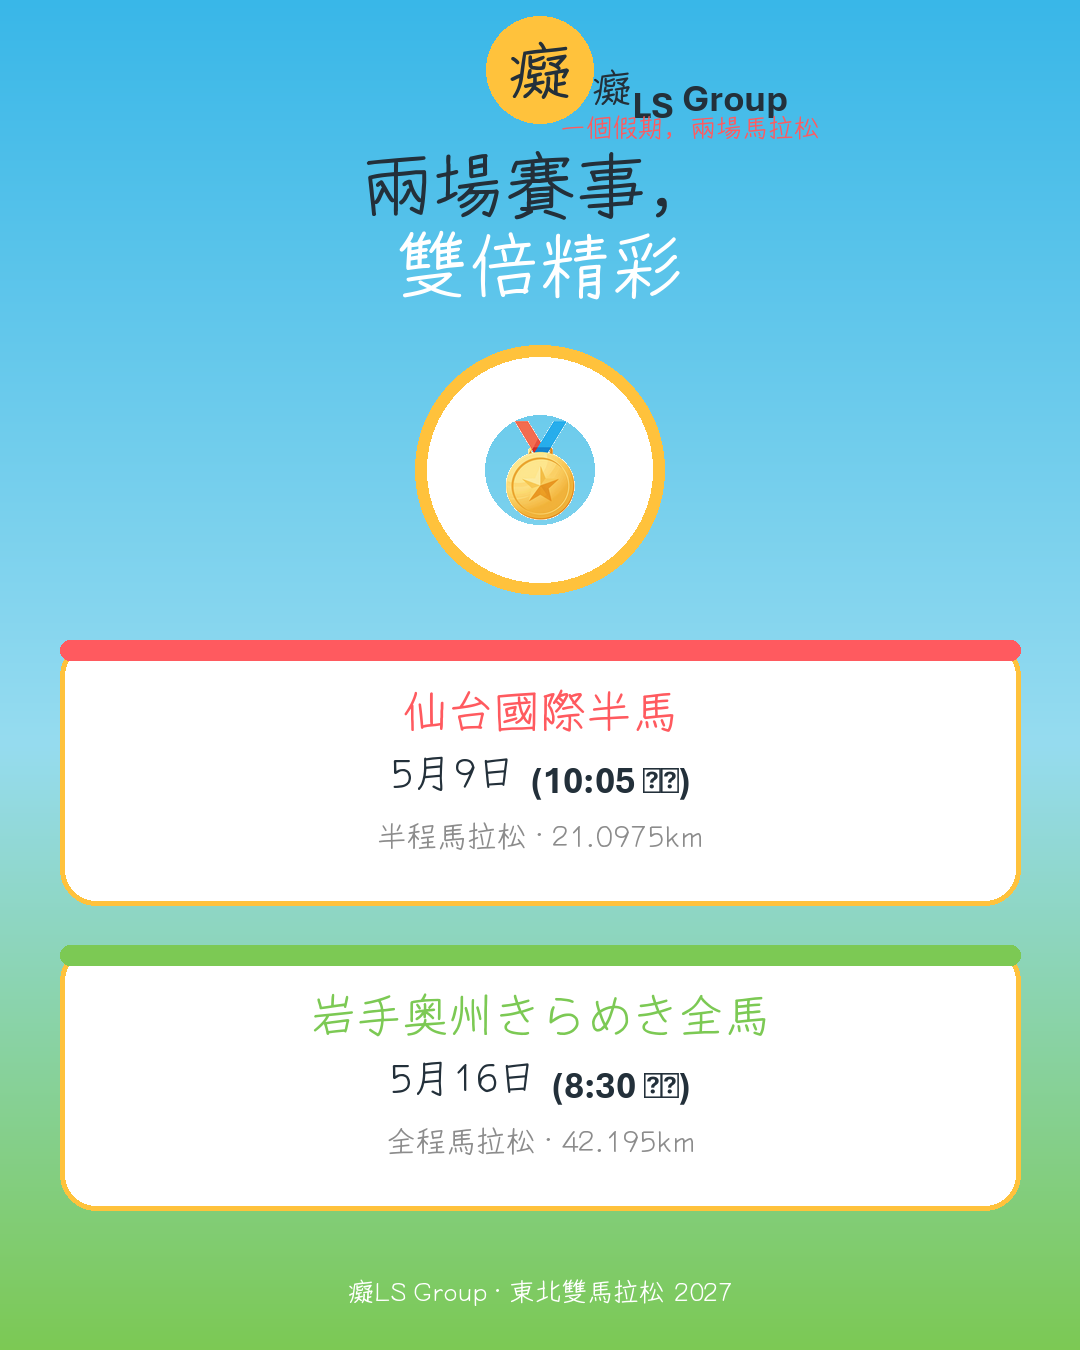
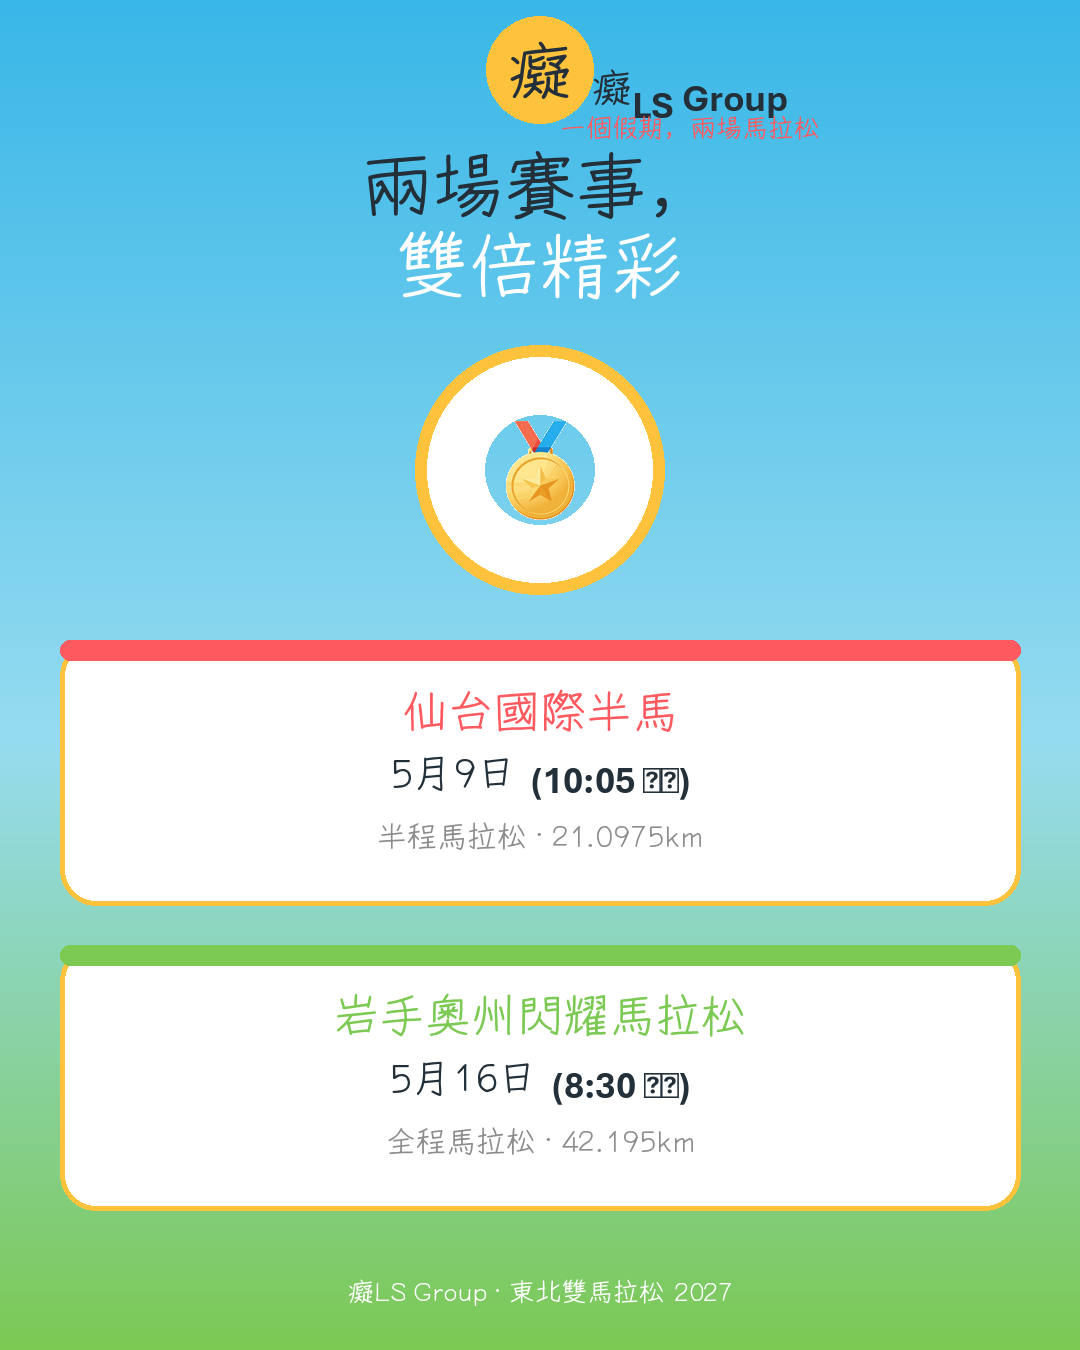
feat: 統一奥州馬拉松中文名 — 岩手奧州閃耀馬拉松
將全站/PDF/圖卡/文案中嘅「奥州きらめき全馬」統一改為官方中文譯名「岩手奧州閃耀馬拉松」（きらめき=閃耀，台灣跑界通用譯法），簡稱保留「奥州全馬」。

改動檔案：
- index.html / info.html — 標題、description、賽事表、時間線
- README.md — 專案介紹
- docs/itinerary.md + rebuild PDF
- build_itinerary.py — 行程生成器
- promo/slogans-and-copy.md — 口號文案
- promo/cards/generate_cards.py + rebuild 5張圖卡

CM 相關（gen_captions.py / CM-storyboard.md / build_cm3.py）暫不更改，按指示保留日文原名。

Changed region(s): [[0.275, 0.7156, 0.7028, 0.7778]]

diff --git a/index.html b/index.html
@@ -4,7 +4,7 @@
 <meta charset="UTF-8">
 <meta name="viewport" content="width=device-width, initial-scale=1.0">
 <title>東北雙馬拉松挑戰之旅 2027｜仙台半馬 × 岩手奥州全馬｜癡LS Group</title>
-<meta name="description" content="一個假期，兩場馬拉松。2027年5月，仙台國際半馬 + 岩手奥州きらめき全馬。佛誕夾中間，請4放9，東北JR Pass 10日任搭。癡LS Group 主辦。">
+<meta name="description" content="一個假期，兩場馬拉松。2027年5月，仙台國際半馬 + 岩手奧州閃耀馬拉松。佛誕夾中間，請4放9，東北JR Pass 10日任搭。癡LS Group 主辦。">
 <link rel="preconnect" href="https://fonts.googleapis.com">
 <link href="https://fonts.googleapis.com/css2?family=Noto+Serif+TC:wght@500;700;900&family=Noto+Sans+TC:wght@400;500;700;900&display=swap" rel="stylesheet">
 <style>
@@ -166,7 +166,7 @@ footer .brand{color:#fff;font-family:var(--serif);font-size:15px;font-weight:700
   <div class="wrap">
     <span class="kicker">一個假期・兩場馬拉松</span>
     <h1>半馬起跑，全馬征服</h1>
-    <p class="sub">仙台國際半馬 × 岩手奥州きらめき全馬。中間 5/13 佛誕放假，請4放9，東北 JR Pass 10日任搭。</p>
+    <p class="sub">仙台國際半馬 × 岩手奧州閃耀馬拉松。中間 5/13 佛誕放假，請4放9，東北 JR Pass 10日任搭。</p>
     <div class="meta">
       <div><b>5·09</b>仙台半馬</div>
       <div><b>5·13</b>佛誕</div>
@@ -217,7 +217,7 @@ footer .brand{color:#fff;font-family:var(--serif);font-size:15px;font-weight:700
         <img src="assets/oshumarathon.jpg" alt="奥州全馬">
         <div class="body">
           <span class="date">5 月 16 日 · 星期日</span>
-          <h3>岩手奥州きらめき全馬 <span class="badge">42.195km</span></h3>
+          <h3>岩手奧州閃耀馬拉松 <span class="badge">42.195km</span></h3>
           <div class="rows">
             <div class="row"><span>起跑</span><b>8:30</b></div>
             <div class="row"><span>限時</span><b>6 小時</b></div>
@@ -245,8 +245,8 @@ footer .brand{color:#fff;font-family:var(--serif);font-size:15px;font-weight:700
         <div class="cap">仙台國際半馬 官方精華 <small>official digest</small></div>
       </div>
       <div class="video-box">
-        <iframe loading="lazy" src="https://www.youtube.com/embed/zMB8N78jR0I" title="岩手奥州きらめき馬拉松" allowfullscreen></iframe>
-        <div class="cap">岩手奥州きらめき馬拉松 現場 <small>official live camera</small></div>
+        <iframe loading="lazy" src="https://www.youtube.com/embed/zMB8N78jR0I" title="岩手奧州閃耀馬拉松" allowfullscreen></iframe>
+        <div class="cap">岩手奧州閃耀馬拉松 現場 <small>official live camera</small></div>
       </div>
     </div>
 
@@ -309,7 +309,7 @@ footer .brand{color:#fff;font-family:var(--serif);font-size:15px;font-weight:700
       <div class="tl race-day"><div class="day">Day 6 · 5/13 四</div><div class="d">🎋 佛誕・全日休腳，泡湯補碳</div></div>
       <div class="tl"><div class="day">Day 7 · 5/14 五</div><div class="d">鳴子峽 / 秋保溫泉，轉戰奥州</div></div>
       <div class="tl"><div class="day">Day 8 · 5/15 六</div><div class="d">奥州全馬報到，補碳早瞓</div></div>
-      <div class="tl race-day"><div class="day">Day 9 · 5/16 日</div><div class="d">🏅 岩手奥州きらめき全馬 → 傍晚羽田紅眼機返港</div></div>
+      <div class="tl race-day"><div class="day">Day 9 · 5/16 日</div><div class="d">🏅 岩手奧州閃耀馬拉松 → 傍晚羽田紅眼機返港</div></div>
       <div class="tl"><div class="day">Day 10 · 5/17 一</div><div class="d">多留一日・自費假期唔包團費（optional）</div></div>
     </div>
   </div>
@@ -371,7 +371,7 @@ footer .brand{color:#fff;font-family:var(--serif);font-size:15px;font-weight:700
 
 <footer>
   <div class="brand">癡LS Group</div>
-  東北雙馬拉松挑戰之旅 2027｜仙台國際半馬 × 岩手奥州きらめき全馬<br>
+  東北雙馬拉松挑戰之旅 2027｜仙台國際半馬 × 岩手奧州閃耀馬拉松<br>
   帶埋朋友一齊跑，送嘅係最美好嘅回憶。
 </footer>
 

diff --git a/info.html b/info.html
@@ -121,7 +121,7 @@ footer .brand{color:#fff;font-family:var(--serif);font-size:15px;font-weight:700
   <h2><span class="n">02</span>兩場賽事報名一覽</h2>
   <div class="card">
     <table>
-      <tr><th></th><th>仙台國際半馬</th><th>岩手奥州きらめき全馬</th></tr>
+      <tr><th></th><th>仙台國際半馬</th><th>岩手奧州閃耀馬拉松</th></tr>
       <tr><td><b>日期</b></td><td>2027-05-09（日）10:05</td><td>2027-05-16（日）8:30</td></tr>
       <tr><td><b>距離</b></td><td>21.0975km <span class="badge sky">半馬</span></td><td>42.195km <span class="badge">全馬</span></td></tr>
       <tr><td><b>參賽費</b></td><td>¥8,000</td><td>¥10,000</td></tr>
@@ -139,7 +139,7 @@ footer .brand{color:#fff;font-family:var(--serif);font-size:15px;font-weight:700
   <div class="card">
     <table>
       <tr><th>賽事</th><th>種目</th><th>費用</th><th>起跑</th><th>備註</th></tr>
-      <tr><td rowspan="3"><b>奥州きらめき</b></td><td>全馬 42.195km</td><td>¥10,000</td><td>8:30</td><td>主賽事・限時6:00</td></tr>
+      <tr><td rowspan="3"><b>奥州閃耀</b></td><td>全馬 42.195km</td><td>¥10,000</td><td>8:30</td><td>主賽事・限時6:00</td></tr>
       <tr><td>10km <span class="badge sky">短距離</span></td><td>¥3,000</td><td>8:45</td><td>同場・限時1:30</td></tr>
       <tr><td>ファンラン 1.7km</td><td>¥2,000</td><td>8:55</td><td>親子/家庭啱玩・限時20分</td></tr>
       <tr><td rowspan="2"><b>仙台半馬</b></td><td>半馬 21.0975km</td><td>¥8,000</td><td>10:05/10:15</td><td>賽日唯一計時賽事</td></tr>
@@ -191,7 +191,7 @@ footer .brand{color:#fff;font-family:var(--serif);font-size:15px;font-weight:700
     <table>
       <tr><th>賽事</th><th>賽日時段</th><th>平均氣溫</th><th>日最高</th><th>日最低</th><th>濕度</th></tr>
       <tr><td><b>仙台半馬</b></td><td>5/9（5月上旬）</td><td>14.3°C</td><td>19.2°C</td><td>10.2°C</td><td>67%</td></tr>
-      <tr><td><b>奥州きらめき全馬</b></td><td>5/16（5月中旬）</td><td>~15°C</td><td>~21°C</td><td>~10°C</td><td>~70%</td></tr>
+      <tr><td><b>奥州閃耀馬拉松</b></td><td>5/16（5月中旬）</td><td>~15°C</td><td>~21°C</td><td>~10°C</td><td>~70%</td></tr>
     </table>
     <p class="muted" style="margin-top:10px">📍 資料來源：<b>日本氣象廳</b> 平年值（1991–2020，30年）。仙台為氣象台觀測值；奥州以就近嘅<b>江刺/盛岡</b>測站平年值（江刺 平均最高約21°C、最低約9.8°C）為準。</p>
     <div class="warn">🌡 5月東北日間涼爽，係跑馬好季節（仙台半馬 5/9 上旬平均僅 ~14°C）。但<b>奥州全馬跑足6小時，日頭可能升到 25–30°C</b>（2026年賽日實錄試過 27°C）—— 下午時段要嚴防暑熱，帶定防曬、帽、鹽丸，每站補水。</div>
@@ -247,7 +247,7 @@ footer .brand{color:#fff;font-family:var(--serif);font-size:15px;font-weight:700
     <div class="linkbox">🌐 <b>Run Japan</b>（外國人報名，前RUNNET GLOBAL）— <a href="https://runjapan.jp" target="_blank">runjapan.jp</a></div>
     <div class="linkbox">📘 <b>RUNNET 海外跑手指引</b> — <a href="https://runnet.jp/runtes/global" target="_blank">runnet.jp/runtes/global</a></div>
     <div class="linkbox">🏁 <b>仙台國際半馬 官方</b> — <a href="https://www.sendaihalf.com" target="_blank">sendaihalf.com</a></div>
-    <div class="linkbox">🏅 <b>岩手奥州きらめき馬拉松 官方</b> — <a href="https://oshukirameki.jp" target="_blank">oshukirameki.jp</a></div>
+    <div class="linkbox">🏅 <b>岩手奧州閃耀馬拉松 官方</b> — <a href="https://oshukirameki.jp" target="_blank">oshukirameki.jp</a></div>
     <div class="linkbox">🏃 <b>Run Japan・仙台半馬 2026 報名頁（已截止，僅作參考）</b> — <a href="https://runjapan.jp/entry/runtes/smp/competitiondetail.do?raceId=E336129&amp;div=1" target="_blank">raceId=E336129</a><br><small>Run Japan 已收埋 2026 link，呢個係 archive 參考：只開半馬（一般II部）¥8,000，5/9報到領號碼布要 passport。</small></div>
     <div class="linkbox">🚄 <b>JR EAST PASS（東北）</b> — 東日本旅客鉄道官方</div>
   </div>

diff --git a/build_itinerary.py b/build_itinerary.py
@@ -102,7 +102,7 @@ c.drawString(M, H-205, "挑戰之旅 2027")
 # subtitle block on pale panel
 c.setFillColor(PALE_C); c.roundRect(M, H-330, W-2*M, 92, 10, stroke=0, fill=1)
 c.setFillColor(CORAL); c.setFont("WQY", 17)
-c.drawString(M+18, H-270, "仙台半馬 × 岩手奥州きらめき全馬")
+c.drawString(M+18, H-270, "仙台半馬 × 岩手奧州閃耀馬拉松")
 c.setFillColor(INK); c.setFont("WQY", 11)
 c.drawString(M+18, H-296, "五月中旬 ・ 佛誕夾中間 ・ 請4放9 ・ 東北 JR Pass 10日任搭")
 
@@ -180,10 +180,10 @@ days = [
       "最後補碳日：多食飯 / 麵，儲 glycogen",
       "宿：奥州 / 一関"]),
     ("DAY 8", "5/15（六）", "奥州全馬報到", YELLOW,
-     ["奥州きらめき全馬 報到 / 領號碼布（會場：奥州市江刺総合支所）",
+     ["奥州閃耀馬拉松 報到 / 領號碼布（會場：奥州市江刺総合支所）",
       "賽前 briefing、早瞓",
       "宿：奥州 / 一関（步行 / 短途到會場最佳）"]),
-    ("DAY 9", "5/16（日）", "奥州きらめき全馬 42.195km", CORAL,
+    ("DAY 9", "5/16（日）", "奥州閃耀馬拉松 42.195km", CORAL,
      ["8:30 起跑，限時 6:00（6 個關門點）",
       "賽道：奥州市江刺総合支所出發，高低差僅 20m —— 全平緩賽道，破 PB 絕佳",
       "完賽：慶功、前澤牛慶祝、花卷溫泉恢復",
@@ -258,7 +258,7 @@ y = section(y, "① 半馬＋全馬相隔 7 日（最重要！）", CORAL,
 
 y = section(y, "② 賽事報名（有經驗人仕幫手）", YELLOW,
     ["仙台半馬：經 runnet 報名，報名期約 2026 年 12 月；需提交達標紀錄（一般I：半馬<2:00 或全馬<4:30；一般II：能 2:30 內完成半馬）；參賽費 ¥8,000",
-     "奥州きらめき全馬：經 RUNNET / 郵便，報名期約 2026 年 11 月底 – 2027 年 2 月中；全馬 ¥10,000；定員 3,000 人",
+     "奥州閃耀馬拉松：經 RUNNET / 郵便，報名期約 2026 年 11 月底 – 2027 年 2 月中；全馬 ¥10,000；定員 3,000 人",
      "唔保證名額、唔代辦 —— 但有有經驗人仕陪你報名、跟進流程"])
 
 y = section(y, "③ 號碼布領取（一定係賽前一日）", SKY,

diff --git a/promo/cards/generate_cards.py b/promo/cards/generate_cards.py
@@ -259,7 +259,7 @@ def card_races():
     y2 = y + ch + 40
     draw.rounded_rectangle([x0, y2, x0+cw, y2+ch], radius=36, fill=WHITE, outline=SUN, width=5)
     draw.rounded_rectangle([x0, y2, x0+cw, y2+20], radius=10, fill=GRASS)
-    center_text(draw, y2+70, "岩手奥州きらめき全馬", 46, fill=GRASS, is_cjk=True, bold=True, cx=x0+cw//2)
+    center_text(draw, y2+70, "岩手奧州閃耀馬拉松", 46, fill=GRASS, is_cjk=True, bold=True, cx=x0+cw//2)
     draw_mixed(draw, (0, y2+138), [("5月16日", True), ("  (8:30 起步)", False)], 40, fill=INK, bold=True, center_x=x0+cw//2)
     sub2 = "全程馬拉松 · 42.195km"
     center_text(draw, y2+196, sub2, 30, fill=(140,140,140), is_cjk=True, bold=False, cx=x0+cw//2)

diff --git a/docs/itinerary.md b/docs/itinerary.md
@@ -1,7 +1,7 @@
 # 東北雙馬拉松挑戰之旅 2027 — 行程規劃
 
 > **核心亮點：一個假期・兩場馬拉松｜佛誕夾中間・請4放9｜東北 JR Pass 10日任搭**
-> 仙台國際半馬（5/9）＋ 岩手奥州きらめき全馬（5/16），中間 5/13 佛誕正正放假。
+> 仙台國際半馬（5/9）＋ 岩手奧州閃耀馬拉松（5/16），中間 5/13 佛誕正正放假。
 
 ---
 
@@ -11,7 +11,7 @@
 |------|------|:---:|------|
 | 香港 佛誕 | 5/13 | 四 | 公眾假期，夾喺兩場賽事中間 |
 | **仙台國際半馬** | 5/9 | 日 | 10:05/10:15 分兩波浪起跑，限時2:30，約1萬人 |
-| **岩手奥州きらめき全馬** | 5/16 | 日 | 8:30 起跑，限時6:00，全馬42.195km |
+| **岩手奧州閃耀馬拉松** | 5/16 | 日 | 8:30 起跑，限時6:00，全馬42.195km |
 
 **請4放9**：5/8（六）出發 → 5/16（日）＝ 9 日，只需請 **5/10、11、12、14** 四日假。
 - 強烈建議 +1 日（5/17 星期一返港），跑完全馬唔好即日飛 —— 變 10 日旅程，啱啱好用晒 10 日 JR Pass。
@@ -79,11 +79,11 @@
 - 🏨 宿：奥州/一関
 
 ### Day 8｜5/15（六）奥州全馬報到
-- **奥州きらめき全馬 報到 / 領號碼布**（會場：奥州市江刺総合支所）
+- **奥州閃耀馬拉松 報到 / 領號碼布**（會場：奥州市江刺総合支所）
 - 賽前 briefing、早瞓
 - 🏨 宿：奥州/一関（步行/短途到會場最佳）
 
-### Day 9｜5/16（日）🏅 岩手奥州きらめき全馬（42.195km）
+### Day 9｜5/16（日）🏅 岩手奧州閃耀馬拉松（42.195km）
 - **8:30 起跑**，限時 6:00（6 個關門點）
 - 賽道：奥州市江刺総合支所出發，高低差僅 20m **全平緩賽道，破PB絕佳**
 - 完賽：慶功、前澤牛慶祝、花卷溫泉恢復
@@ -104,7 +104,7 @@
 
 ### 2. 賽事報名（有經驗人仕幫手）
 - **仙台半馬**：經 runnet 報名，報名期約 **2026年12月**；需提交達標紀錄（一般I：半馬<2:00 或 全馬<4:30；一般II：能 2:30 內完成半馬）；參賽費 ¥8,000
-- **奥州きらめき全馬**：經 RUNNET/郵便，報名期約 **2026年11月底–2027年2月中**；全馬 ¥10,000；定員 3,000 人
+- **奥州閃耀馬拉松**：經 RUNNET/郵便，報名期約 **2026年11月底–2027年2月中**；全馬 ¥10,000；定員 3,000 人
 - 👉 唔保證名額、唔代辦 —— 但有**有經驗人仕**陪你報名、跟進流程，唔使自己盲摸摸
 
 ### 3. 號碼布領取（一定要賽前一日）

diff --git a/promo/slogans-and-copy.md b/promo/slogans-and-copy.md
@@ -22,7 +22,7 @@
 ### 📱 帖1｜公佈（Teaser）
 > 🔥 **一個假期・兩場馬拉松！** 2027年5月，帶你由仙台半馬跑到岩手奥州全馬！
 > 🏃 5/9 仙台國際半馬（杜之都新綠城市賽，1萬人大會）
-> 🏅 5/16 岩手奥州きらめき全馬（平坦破PB賽道，大谷翔平故鄉）
+> 🏅 5/16 岩手奧州閃耀馬拉松（平坦破PB賽道，大谷翔平故鄉）
 > 🎋 中間 5/13 佛誕正正放假 —— **請4日假，玩足9日！**
 > 🚄 東北 JR Pass 10日任搭，跑完泡湯食牛
 > ✈ HK Express 直航仙台
@@ -59,9 +59,9 @@
 > 跑友加油！応援！ #仙台ハーフ #sendaihalf
 
 ### 📱 帖5｜全馬衝線（5/16 當日）
-> 🏅 **岩手奥州きらめき全馬・完走！** 42.195km，你做到了！
+> 🏅 **岩手奧州閃耀馬拉松・完走！** 42.195km，你做到了！
 > 高低差20m平坦賽道，前澤牛慶功，花卷溫泉恢復。
-> 大谷翔平故鄉，我哋跑過。🌟 #奥州きらめきマラソン
+> 大谷翔平故鄉，我哋跑過。🌟 #奥州閃耀マラソン
 
 ---
 

diff --git a/README.md b/README.md
@@ -1,6 +1,6 @@
 # 🏃 東北雙馬拉松挑戰之旅 2027
 
-> **一個假期・兩場馬拉松**｜仙台國際半馬（5/9）× 岩手奥州きらめき全馬（5/16）
+> **一個假期・兩場馬拉松**｜仙台國際半馬（5/9）× 岩手奧州閃耀馬拉松（5/16）
 > 佛誕夾中間（5/13）・請4放9・東北 JR Pass 10日任搭
 
 ## 🌐 網站
@@ -30,7 +30,7 @@ GitHub Pages：**https://nkyang10.github.io/202705jpmarathon/**
 |------|------|
 | 仙台國際半馬 | 2027-05-09（日）10:05 起跑 |
 | 佛誕（香港紅日） | 2027-05-13（四） |
-| 岩手奥州きらめき全馬 | 2027-05-16（日）8:30 起跑 |
+| 岩手奧州閃耀馬拉松 | 2027-05-16（日）8:30 起跑 |
 | 旅程 | 5/8（六）– 5/17（一） |
 
 ## 📊 費用（每人・參考）
